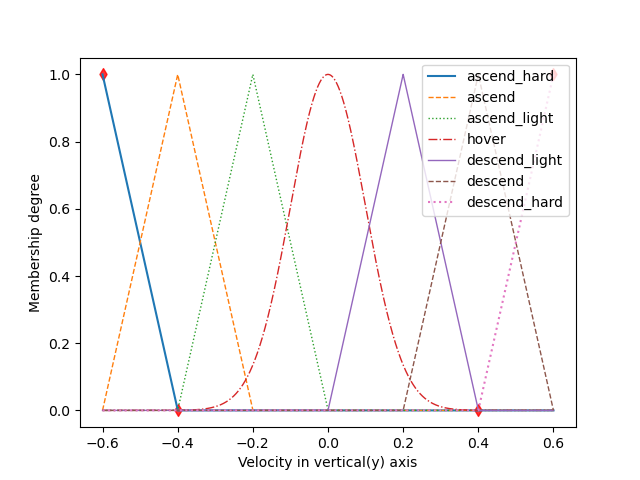
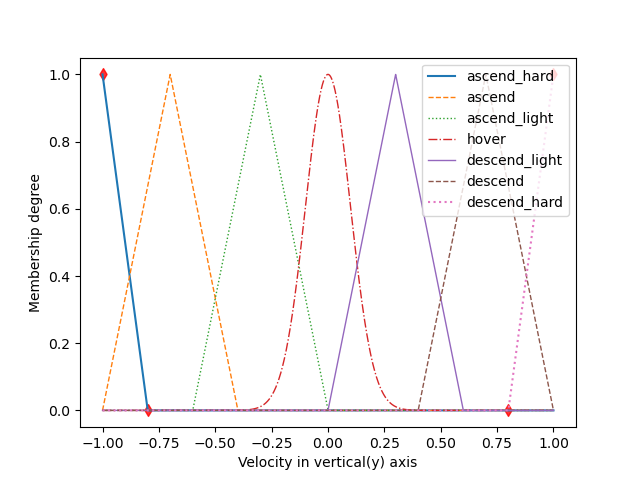
fixed controller

diff --git a/main.py b/main.py
@@ -21,15 +21,15 @@ def main():
     # finally:
     #     drone.End()
     #     # cv.destroyAllWindows()
-        Outputs_X = []
-        Outputs_X.append(sf.FuzzySet(points=[[-0.6, 1.0], [-0.4, 0.0]], term = "hard_left"))
-        Outputs_X.append(sf.FuzzySet(function=sf.Triangular_MF(-0.6, -0.4, -0.2), term = "left"))
-        Outputs_X.append(sf.FuzzySet(function=sf.Triangular_MF(-0.4, -0.2, -0.0), term = "soft_left"))
-        Outputs_X.append(sf.FuzzySet(function=sf.Gaussian_MF(0, 0.1), term = "stop"))
-        Outputs_X.append(sf.FuzzySet(function=sf.Triangular_MF(0.0, 0.2, 0.4), term = "soft_right"))
-        Outputs_X.append(sf.FuzzySet(function=sf.Triangular_MF(0.2, 0.4, 0.6), term = "right"))
-        Outputs_X.append(sf.FuzzySet(points=[[0.4, 0.0], [0.6, 1.0]], term = "hard_right"))
-        lv_X = sf.LinguisticVariable(Outputs_X, concept = "Velocity in lateral(x) axis", universe_of_discourse = [-0.6, 0.6])
-        lv_X.plot()
+        Outputs_Z = []
+        Outputs_Z.append(sf.FuzzySet(points=[[-0.5, 1.0], [-0.3, 0.0]], term = "fast_reverse"))
+        Outputs_Z.append(sf.FuzzySet(function=sf.Triangular_MF(-0.5, -0.3, -0.1), term = "reverse"))
+        Outputs_Z.append(sf.FuzzySet(function=sf.Triangular_MF(-0.3, -0.1, -0.0), term = "slow_reverse"))
+        Outputs_Z.append(sf.FuzzySet(function=sf.Gaussian_MF(0, 0.05), term = "stop"))
+        Outputs_Z.append(sf.FuzzySet(function=sf.Triangular_MF(0.0, 0.1, 0.3), term = "slow_forward"))
+        Outputs_Z.append(sf.FuzzySet(function=sf.Triangular_MF(0.1, 0.3, 0.5), term = "forward"))
+        Outputs_Z.append(sf.FuzzySet(points=[[0.3, 0.0], [0.5, 1.0]], term = "fast_forward"))
+        lv_Z = sf.LinguisticVariable(Outputs_Z, concept = "Velocity in longitual(z) axis", universe_of_discourse = [-0.5, 0.5])
+        lv_Z.plot()
 if __name__ == '__main__':
     main()

diff --git a/Controller.py b/Controller.py
@@ -94,7 +94,7 @@ class DroneController:
         Outputs_Z.append(sf.FuzzySet(points=[[-0.5, 1.0], [-0.3, 0.0]], term = "fast_reverse"))
         Outputs_Z.append(sf.FuzzySet(function=sf.Triangular_MF(-0.5, -0.3, -0.1), term = "reverse"))
         Outputs_Z.append(sf.FuzzySet(function=sf.Triangular_MF(-0.3, -0.1, -0.0), term = "slow_reverse"))
-        Outputs_Z.append(sf.FuzzySet(function=sf.Gaussian_MF(0, 0.1), term = "stop"))
+        Outputs_Z.append(sf.FuzzySet(function=sf.Gaussian_MF(0, 0.05), term = "stop"))
         Outputs_Z.append(sf.FuzzySet(function=sf.Triangular_MF(0.0, 0.1, 0.3), term = "slow_forward"))
         Outputs_Z.append(sf.FuzzySet(function=sf.Triangular_MF(0.1, 0.3, 0.5), term = "forward"))
         Outputs_Z.append(sf.FuzzySet(points=[[0.3, 0.0], [0.5, 1.0]], term = "fast_forward"))
